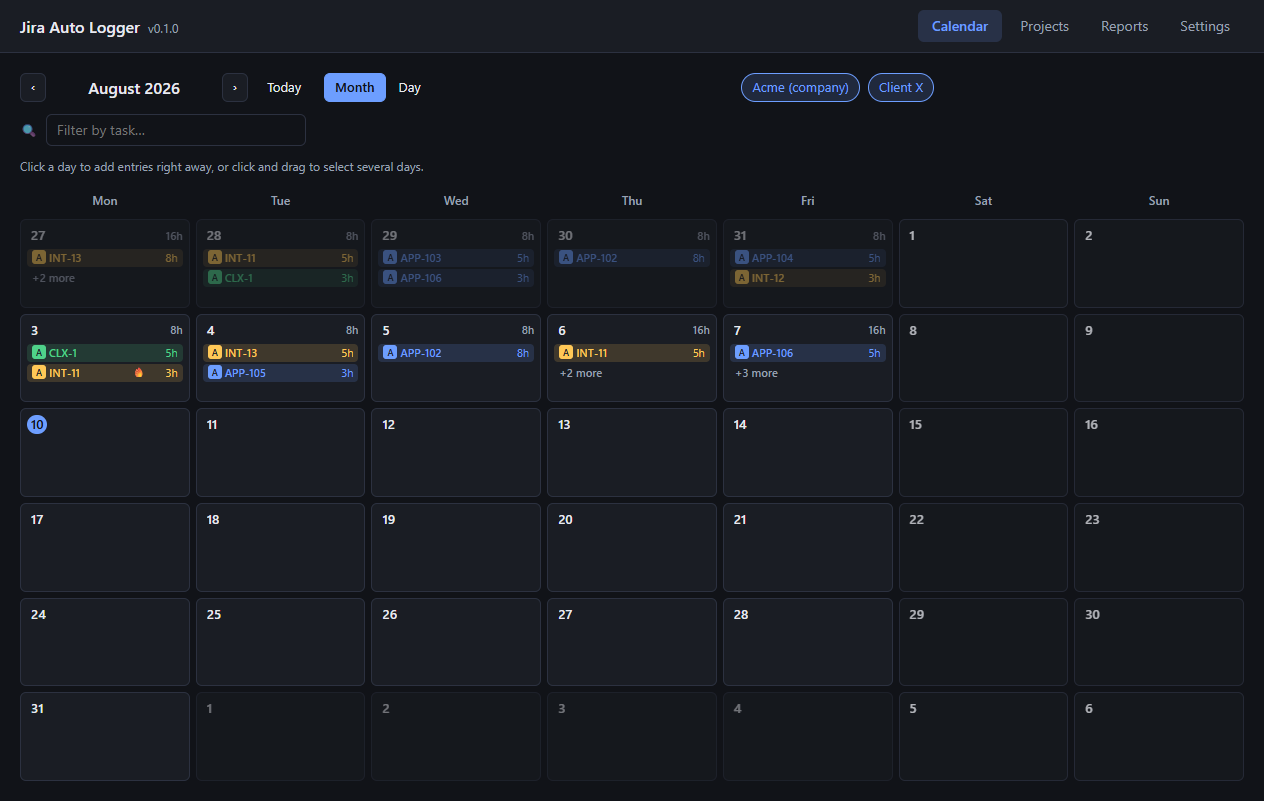
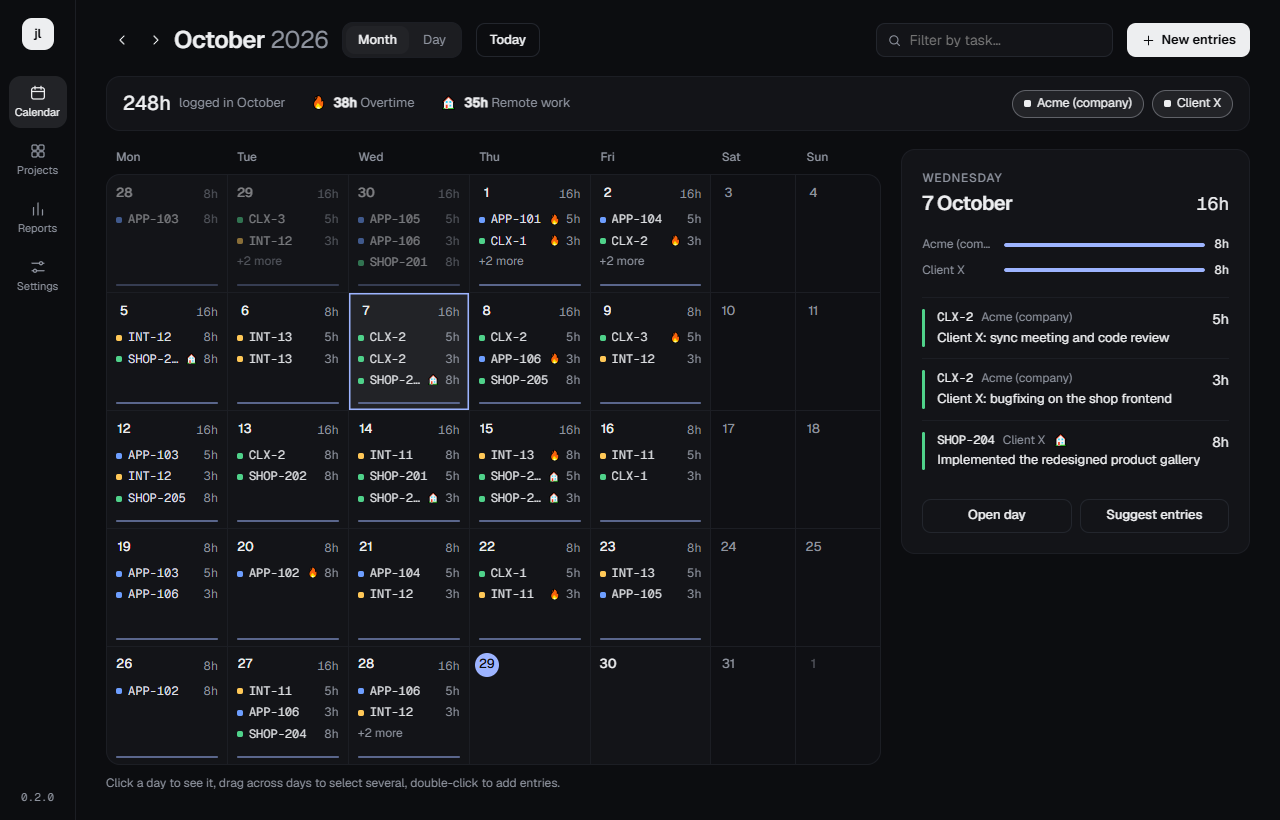
Release 0.2.0: README, screenshots and changelog for Tauri and the redesign
The README describes the Tauri app and the new design, with screenshots
regenerated by scripts/screenshots.mjs, which drives the release build in
mock mode over WebView2's DevTools protocol. The version jumps to 0.2.0.

diff --git a/src/renderer/src/components/calendar/calendar.css b/src/renderer/src/components/calendar/calendar.css
@@ -426,6 +426,8 @@
   flex: 999 1 640px;
   min-width: 0;
   overflow: auto;
+  /* Room for the last hour label, which sits on the grid's bottom edge. */
+  padding-bottom: 12px;
 }
 
 .day-lanes-head,

diff --git a/README.md b/README.md
@@ -1,72 +1,102 @@
+<div align="center">
+
 # Jira Auto Logger
 
-A cross-platform desktop app (Electron — Windows/macOS/Linux) that suggests Jira/Tempo worklog entries based on your git commits and free-form notes, using an LLM of your choice. Entries can be reviewed manually or logged by the optional full-auto scheduler.
+**Log your Jira / Tempo time from what you actually did.** Your git commits and a line of notes go in, ready-to-review worklogs come out.
+
+[![Release](https://img.shields.io/github/v/release/doctorspider42/jira-auto-logger?style=flat-square&color=9db4ff)](https://github.com/doctorspider42/jira-auto-logger/releases/latest)
+[![Build](https://img.shields.io/github/actions/workflow/status/doctorspider42/jira-auto-logger/release.yml?style=flat-square&label=release)](https://github.com/doctorspider42/jira-auto-logger/actions/workflows/release.yml)
+![Platforms](https://img.shields.io/badge/Windows%20·%20macOS%20·%20Linux-161616?style=flat-square)
+![Tauri 2](https://img.shields.io/badge/Tauri%202-Rust%20+%20React-24c8db?style=flat-square)
+![Languages](https://img.shields.io/badge/UI-Polski%20·%20English-6fd8a0?style=flat-square)
+![License](https://img.shields.io/badge/license-MIT-f0b85a?style=flat-square)
 
 ![Calendar](screenshots/calendar.png)
 
+</div>
+
+## Why
+
+Filling in Tempo at the end of the day (or month) means reconstructing what you did from memory. The facts are already somewhere: in your commits, your branches, the issues you touched. Jira Auto Logger reads them, asks an LLM of your choice to draft the worklogs in **your own style**, and lets you review every entry before anything is sent to Tempo.
+
+- **Grounded, not invented.** The model may only pick issues that really exist in your Jira; anything else is thrown away.
+- **Isolated per project.** Each project gets its own pass with only its issues, commits and notes - nothing leaks between clients.
+- **You stay in charge.** Nothing is logged until you confirm. Unsubmitted suggestions wait for you if you close the window.
+
 ## How it works
 
-1. The **calendar** shows your existing Tempo worklogs, merged from all active Jira connections. Entries are tinted with their project's color; custom-field markers (e.g. 🔥 overtime) are shown next to the hours. Click a day to add entries right away, or click-and-drag to select a range.
-2. In the popup you pick which **projects** you worked on, optionally include commits from each project's repository and add a note per project.
+1. The **calendar** shows your Tempo worklogs from every active Jira, tinted by project. Each day has a progress bar towards your working day; empty workdays are flagged, and the month summary offers to fill them in one go.
+2. Pick a day (or drag across several) and choose **New entries**. Tick the projects you worked on, keep or drop their commits, and add a note.
 
-   ![Wizard input](screenshots/wizard-input.png)
+   ![Context step](screenshots/wizard-input.png)
 
-3. Each project gets its own **isolated LLM pass** — the model only sees that project's issues, commits, recent worklogs (as style examples) and notes. It never invents issue keys: suggestions are validated against real issues fetched from Jira.
-4. You review the suggestions — issue (searchable picker with type badges), date, hours, description, custom fields — regenerate descriptions with a hint if needed, and only then log the time to Tempo.
+3. Each project - and each Jira it logs to - gets an **isolated LLM pass**. Your recent worklogs are the style guide, so suggestions read the way you write them.
+4. **Review**: one compact row per entry - issue (searchable picker with type badges), date, hours, description, custom fields. Rewrite a description with a hint, then log everything in one click.
 
-   ![Wizard suggestions](screenshots/wizard-suggestions.png)
+   ![Review step](screenshots/wizard-suggestions.png)
 
 ## Features
 
-- **Multiple Jira connections** — e.g. your company's Jira and a client's Jira, each with its own Tempo token. Toggle active connections on the calendar; one generation can log the same day into several Jiras.
-- **Projects** ([screenshot](screenshots/projects.png)) — a project pins a Jira project of one connection, an optional git repository (with a per-repo commit author filter) and a standing LLM instruction. Each project has a color used in the calendar.
-- **LLM backends**: Claude CLI, GitHub Copilot CLI or the OpenAI API, with model selection, a thinking on/off switch and a fully editable main prompt. Expired Claude CLI sessions are detected and the login flow can be launched from the app.
-- **Custom worklog fields** (Tempo work attributes) — boolean or text, imported from the API or added manually, optionally auto-filled by the LLM, optionally marked in the calendar with an icon.
-- **Customizable Tempo-style PDF reports** — build monthly summary or detailed reports on demand, filter connections/projects, create an ordered hierarchy of up to five group levels (including dynamic Tempo custom fields), choose detail columns, time format, A4 orientation, title, accent, footer and a filename template such as `{MM}.{YYYY}.pdf`. Presets reproduce the compact Tempo summary or a polished detailed export.
-- **Weekday auto logger** — run at a configured local time using a 24-hour schedule and the most recent project selection. Notify-only mode just reminds you and opens that day untouched once you open the app, exactly like clicking the day in the calendar; confirmation mode shows a system notification and reliably opens generated entries for review even when OS notifications are suppressed; full-auto mode generates and submits the remaining day directly. Existing Tempo hours are taken into account, one scheduled attempt is made per configuration per day, and a **Run now** action is available without consuming the scheduled run.
-- **Desktop integration** — optional launch at system login and minimize/close to the system tray, with show and quit actions in the tray menu.
-- **Debug tools** — preview of the exact prompt (with a token estimate) before sending, and a diagnostic log file (paths shown at the bottom of settings, [screenshot](screenshots/settings.png)).
-- **Two languages** (Polish/English) and **themes**: dark, light, Windows 95, Fallout terminal, Fallout New Vegas.
-- Tokens are encrypted with the OS keychain (`safeStorage`: DPAPI/Keychain/libsecret); the rest of the config is a plain JSON in the userData directory.
+| | |
+|---|---|
+| **Several Jiras** | Your company's Jira and a client's, each with its own Tempo token. A project can log the same work into both; the day view shows one lane per Jira ([screenshot](screenshots/calendar-day.png)). |
+| **Projects** | A project pins Jira projects (each with its own standing LLM instruction), git repositories with a per-repo author filter, and a calendar colour ([screenshot](screenshots/projects.png)). |
+| **LLM backends** | Claude CLI, GitHub Copilot CLI or the OpenAI API (or any compatible endpoint), with model choice and a thinking on/off switch. Expired Claude sessions are detected and the login flow opens from the app. |
+| **Custom fields** | Tempo work attributes (yes/no or text), imported from the API or added by hand, optionally filled by the LLM and marked in the calendar with an icon. |
+| **PDF reports** | Tempo-style monthly summaries or detailed timesheets: filters, up to five grouping levels (custom fields included), columns, time format, orientation, accent and a filename template such as `{MM}.{YYYY}.pdf` ([screenshot](screenshots/reports.png)). |
+| **Auto logger** | At a set time on weekdays: just remind you, open the day with suggestions ready, or generate and log the day on its own. Existing hours are respected. |
+| **Desktop** | Launch at sign-in, minimize to the tray, native window backdrop (Mica on Windows 11, Acrylic on Windows 10, vibrancy on macOS). |
+| **Twelve themes** | Graphite and Paper by default, plus iteo, Classic 95, Vault Terminal, New Vegas, Memory Card, Hello Kitty, Y2K Chrome, Clair Obscur, Animus and a hidden one. Each changes palette, type, shape and backdrop - never the layout. |
+| **Debug tools** | Preview the exact prompt (with a token estimate) before sending, and a diagnostic log file ([screenshot](screenshots/settings.png)). |
+| **Private by design** | Tokens are encrypted with the OS (DPAPI on Windows). Only commit messages are read, never the code. Telemetry is anonymous counts only and can be turned off. |
 
-## Getting started
+## Install
+
+Download the installer for your system from the [latest release](https://github.com/doctorspider42/jira-auto-logger/releases/latest): `*-setup.exe` (Windows), `.dmg` (macOS) or `.AppImage` (Linux). The app updates itself on Windows and Linux; on macOS it tells you when a new version is out.
+
+> The installers are not code-signed, so Windows SmartScreen and macOS Gatekeeper will ask you to confirm the first launch.
+
+Coming from an older (Electron) version? It updates itself into this one and keeps your settings.
+
+## Configuration
+
+- **Jira + Tempo connections** (Settings) - the instance URL (`https://company.atlassian.net`), your account e-mail, an [Atlassian API token](https://id.atlassian.com/manage-profile/security/api-tokens) (classic, no scopes) and a Tempo API token (Tempo → Settings → API Integration, `Worklogs: Manage`). Both token pages open from the app.
+- **Projects** - name, Jira project(s), repository folders, commit author, colour, standing instructions.
+- **AI model** - provider, model, thinking switch, how many recent issues the model may choose from, and your own extra instructions.
+- **Automation** - auto logger mode and time, launch at sign-in, tray.
+- **PDF reports** - output folder, filename template, defaults, end-of-month reminder.
+
+## Development
 
 ```bash
 npm install
-npm run dev        # development mode
-npm run dev:mock   # development mode on fake data (no tokens needed) — see below
-npm run build      # production build (out/)
-npm run typecheck  # type checking
-npm run dist:win   # Windows installer (also dist:mac, dist:linux)
+npm run dev          # Vite + the Rust backend in debug mode
+npm run dev:mock     # the same on fake data - no tokens, no network
+npm run typecheck    # TypeScript
+npm run test:rust    # backend tests
+npm run build        # installer for this OS
+npm run screenshots  # regenerate the images in this README (Windows, after `npx tauri build --no-bundle`)
 ```
 
-### Configuration (Settings tab)
+Requirements: Node 22+, a stable Rust toolchain, and on Linux the WebKitGTK build libraries (`libwebkit2gtk-4.1-dev libappindicator3-dev librsvg2-dev patchelf`).
 
-- **Jira + Tempo connections** — instance URL (`https://company.atlassian.net`), account e-mail and an [Atlassian API token](https://id.atlassian.com/manage-profile/security/api-tokens) (classic, without scopes), plus a Tempo API token (Tempo → Settings → API Integration, `Worklogs: Manage` scope). Both token pages open directly from the app.
-- **Projects tab** — define your projects: name, Jira project, repository folder, commit author e-mail (or "include everyone's commits"), color, standing LLM instruction.
-- **LLM backend** — provider, model, thinking switch, issue-pool tuning (how many recent issues are offered to the model) and the main prompt (placeholders: `{{input}}`, `{{workingHoursPerDay}}`, `{{language}}`).
-- **Automation** — scheduler mode and time, launch at login, and minimize-to-tray behavior. Run one manual generation first so the scheduler has a recent project selection to reuse.
-- **PDF reports** — output directory, filename template, saved builder defaults and monthly reminder timing from 7 days before through 7 days after month end (or reminders off).
-
-## Mock mode
-
-`npm run dev:mock` (or the `JAL_MOCK=1` env var / `--mock` argument) runs the whole app on deterministic fake data: two connections, three projects, six weeks of Tempo history, fake commits and a fake LLM with a realistic delay. Nothing is read from or written to your real config, and no network calls are made. Useful for development, UI work and trying the app out without any tokens.
-
-`npm run screenshots` regenerates the images in this README: it launches mock mode, drives the UI automatically and captures every screen.
+**Mock mode** (`npm run dev:mock`, `JAL_MOCK=1` or `--mock`) runs everything on deterministic fake data: two connections, three projects, six weeks of Tempo history, fake commits and a fake LLM with a realistic delay. Your real config is never read or written and nothing goes over the network.
 
 ## Architecture
 
 ```
-src/
-  shared/    domain types + the typed IPC contract (no Electron/DOM dependencies)
-  main/      logic: ConfigService, ConnectionManager, JiraClient, TempoClient,
-             GitService, ReportService, LlmService + providers (strategy: claude-cli / copilot-cli / openai-api),
-             mock implementations of all external services
-  preload/   contextBridge exposing the typed window.api
-  renderer/  React UI: calendar, suggestion wizard, projects, reports, settings,
-             themes (CSS variables), i18n (Polish/English)
+src-tauri/        Rust backend - all logic
+  commands.rs     one command per window.api method
+  config.rs       settings, migrations, encrypted tokens (secrets.rs)
+  services/       Jira, Tempo, git, per-connection clients
+  llm/            prompt building, response validation, Claude / Copilot / OpenAI
+  reports/        report HTML printed to PDF by the system webview
+  auto_logger.rs, updates.rs, telemetry.rs, desktop.rs, mock/
+src/shared/       the command contract (ipc.ts) and domain types
+src/renderer/     React UI: calendar, new entries, projects, reports, settings,
+                  themes (tokens -> CSS variables), i18n (Polish/English)
 ```
 
-The renderer never talks to external APIs — everything goes through the main process and returns a serializable `Result`, so every error surfaces as a translated message. External services are behind interfaces (`JiraApi`, `TempoApi`, `CommitSource`, `LlmProvider`), which is also how mock mode plugs in.
+The interface never talks to external services: every call goes to a Rust command and comes back as a `Result`, so every error reaches the screen as a translated message. Jira, Tempo, git and the LLM sit behind traits, which is also how mock mode plugs in.
 
-All dependencies use MIT/Apache-2.0 licenses (no copyleft): React, zustand, i18next, date-fns, electron-vite, electron-builder, cross-env.
+Dependencies are MIT, Apache-2.0 or OFL (fonts) licensed - no copyleft.

diff --git a/docs/tauri-migration.md b/docs/tauri-migration.md
@@ -1,46 +1,52 @@
 # Moving to Tauri and the new designs
 
 Working branch: `tauri-redesign`. Electron keeps shipping from `main` until this branch
-replaces it in one release. Creating Jira issues comes after the switch.
+replaces it in one release (0.2.0). Creating Jira issues comes after the switch.
 
-The renderer keeps talking to the backend through the same `IpcApi` contract
-(`src/shared/ipc.ts`); only its implementation moves from the Electron main process to
-Rust commands. That keeps the port and the redesign independent of each other.
+The renderer talks to the backend through the same `IpcApi` contract
+(`src/shared/ipc.ts`); its implementation moved from the Electron main process to
+Rust commands.
 
 ## 1. Rust foundation
-- [ ] Domain types in Rust (serde, camelCase) mirroring `src/shared/domain.ts`
-- [ ] `AppError` with the same codes, commands return the same `Result` shape
-- [ ] Config: full `ConfigService.load()` port with migrations; saving with the
-      same `safeStorage` encryption, so Electron and Tauri can read each other's file
-- [ ] File logger at the same path (`userData/logs/main.log`)
-- [ ] Mock mode (`--mock`, `JAL_MOCK=1`) with the same data
-- [ ] `window.api` bridge: one Tauri command per IPC channel, events for pushes
+- [x] Domain types in Rust (serde, camelCase) mirroring `src/shared/domain.ts`
+- [x] `AppError` with the same codes, commands return the same `Result` shape
+- [x] Config: full `ConfigService.load()` port with migrations; saving with the
+      same `safeStorage` encryption, so Electron and Tauri read each other's file
+- [x] File logger at the same path (`userData/logs/main.log`)
+- [x] Mock mode (`--mock`, `JAL_MOCK=1`) with the same data
+- [x] `window.api` bridge: one Tauri command per IPC channel, events for pushes
 
 ## 2. Services
-- [ ] Jira client, Tempo client, connection manager
-- [ ] Git commits
-- [ ] LLM: CLI runner, Claude / Copilot / OpenAI providers, prompt building,
-      `parseSuggestions` validation, Claude login flow
-- [ ] PDF reports (HTML template printed to PDF)
-- [ ] Auto logger scheduler and notifications
-- [ ] Updates (Tauri updater, signed) and release history
-- [ ] Telemetry (Aptabase, same events and gates)
+- [x] Jira client, Tempo client, connection manager
+- [x] Git commits
+- [x] LLM: CLI runner, Claude / Copilot / OpenAI providers, prompt building,
+      response validation, Claude login flow
+- [x] PDF reports on Windows (report HTML printed by WebView2)
+- [ ] PDF reports on macOS (WKWebView) and Linux (WebKitGTK)
+- [x] Auto logger scheduler and notifications
+- [x] Updates (Tauri updater, signed) and release history
+- [x] Telemetry (Aptabase HTTP API, same events and gates)
 
 ## 3. Desktop integration
-- [ ] Single instance, tray, minimize to tray, launch at login (`--hidden`)
-- [ ] External links in the system browser, folder picker, reveal in folder
-- [ ] Window backdrop (Mica / Acrylic / vibrancy)
+- [x] Single instance, tray, minimize to tray, launch at login (`--hidden`)
+- [x] External links in the system browser, folder picker, reveal in folder
+- [x] Window backdrop (Mica / Acrylic / vibrancy)
+- [ ] Token encryption on macOS (Keychain) and Linux (libsecret); until then
+      tokens stay in the config file there, as Electron did without a keychain
 
 ## 4. Switch
-- [ ] Release workflow builds Tauri bundles for Windows, macOS, Linux
-- [ ] Updater signing key in GitHub secrets (manual step)
-- [ ] Last Electron release points existing users to the Tauri installer
-- [ ] Remove Electron, electron-vite, electron-builder
+- [x] Release workflow builds Tauri bundles for Windows, macOS, Linux
+- [ ] Updater signing key in GitHub secrets (`TAURI_SIGNING_PRIVATE_KEY`) - manual step
+- [x] Electron update feeds point existing installs at the Tauri installer;
+      the NSIS hook removes the old Electron copy
+- [x] Remove Electron, electron-vite, electron-builder
 
 ## 5. Redesign (`docs/redesign`)
-- [ ] Theme system: six colour tokens, type, shape, texture, voice; 12 themes
-- [ ] App shell with the side menu
-- [ ] Calendar month and day views
-- [ ] New entries: context and review steps
-- [ ] Projects, reports, settings
-- [ ] README screenshots
+- [x] Theme system: tokens for palette, type, shape, texture, voice; 12 themes
+- [x] App shell with the side menu
+- [x] Calendar month view (summary, progress bars, selected-day panel) and day view (lane per Jira)
+- [x] New entries: context and review steps
+- [x] Projects as list + editor
+- [~] Settings and Reports restyled with the new tokens and navigation; the
+      design's collapsible connection rows and Reports' new builder layout are not built
+- [x] README screenshots (`npm run screenshots`)

diff --git a/CHANGELOG.md b/CHANGELOG.md
@@ -10,6 +10,33 @@ workflow picks the section whose version matches the one being published; a
 push with no matching section falls back to GitHub's auto-generated notes.
 Write for users, not for the commit log — see the `release` skill.
 
+## 0.2.0 — 2026-10-29
+
+- **A lighter, faster app.** Jira Auto Logger is rebuilt on Tauri with a Rust
+  core instead of Electron. The installer shrinks from about 98 MB to about
+  3 MB. Your settings, tokens and logs carry over untouched, and the old
+  version updates itself into this one.
+- **A new, quieter look.** Navigation moved to a slim side bar, and the
+  calendar shows each day's progress towards your working day, flags workdays
+  with nothing logged and sums the month at the top - with one button to fill
+  the empty days.
+- **A panel for the selected day.** Clicking a day now shows what it holds,
+  per Jira, beside the calendar; double-click (or "Suggest entries") opens the
+  new entries flow.
+- **Day view per Jira.** When you log to several Jiras, each gets its own lane,
+  so a day logged to two of them reads as two full days.
+- **New entries, step by step.** Adding entries is now a full-screen flow:
+  pick projects and write notes, then review compact rows with an hours
+  stepper and descriptions you edit in place.
+- **Projects as a list.** Projects sit in a list with an editor beside it, with
+  ready-made colours to pick from.
+- **Every theme rebuilt.** Themes now change colours, fonts, shapes and one
+  background effect, but never the layout, so every theme looks finished. The
+  default dark and light themes are now Graphite and Paper; the fonts ship with
+  the app.
+- **Window backdrop.** On Windows the window shows a blurred backdrop (Mica on
+  Windows 11, Acrylic on Windows 10).
+
 ## 0.1.45 — 2026-09-29
 
 - **Each Jira in a project now has its own standing instruction.** When a

diff --git a/.claude/skills/run-and-debug/SKILL.md b/.claude/skills/run-and-debug/SKILL.md
@@ -14,6 +14,7 @@ npm run typecheck    # tsc for vite.config.ts (tsconfig.node.json) and the rende
 npm run test:rust    # cargo test for the backend
 npm run build        # installer for this OS into src-tauri/target/release/bundle/
 npx tauri build --no-bundle   # release exe only (src-tauri/target/release/jira-auto-logger.exe)
+npm run screenshots  # README images from the release exe in mock mode (Windows)
 ```
 
 Run `npm run typecheck` and `cargo build` (or `npm run test:rust`) before
@@ -71,6 +72,15 @@ Then `http://127.0.0.1:9333/json` lists the page; connect to its
 `Runtime.evaluate` (e.g. `await window.api.llm.generateSuggestions(...)`) or
 `Page.captureScreenshot`. The CDP capture shows the page only - the window
 backdrop behind it is not in the image.
+
+`npm run screenshots` (`scripts/screenshots.mjs`) does this for the README: it
+starts the release exe in mock mode with `JAL_BACKDROP=none`, fixes the
+viewport at 1280×820 and captures calendar, day view, both wizard steps,
+projects, reports and settings into `screenshots/` (`JAL_SCREENSHOTS=<dir>`
+for a scratch folder). Build first with `npx tauri build --no-bundle`. Clicks
+on the calendar go through `Input.dispatchMouseEvent`, not synthetic DOM
+events - a real cursor resting over the grid otherwise turns a click into a
+drag across several days.
 
 Reports land in the configured output folder (default `Documents/Jira Auto
 Logger Reports`) even in mock mode - move test PDFs out afterwards.
